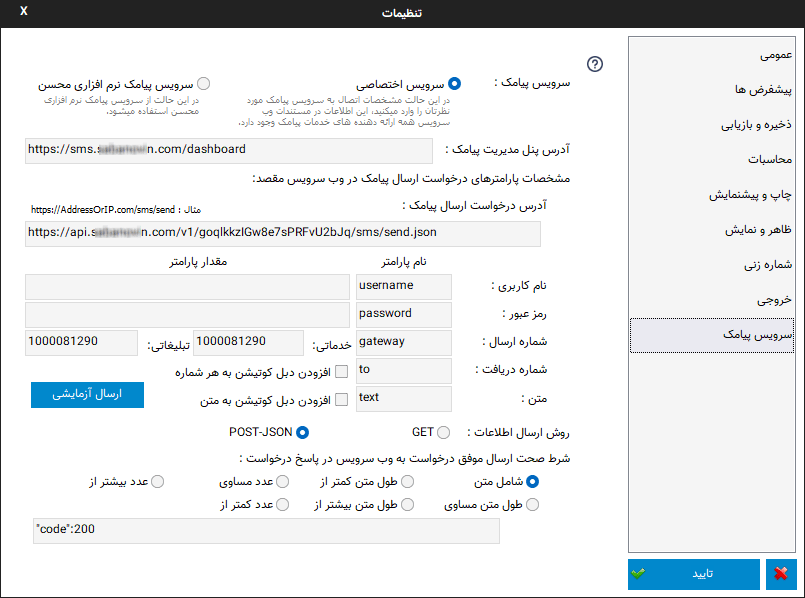
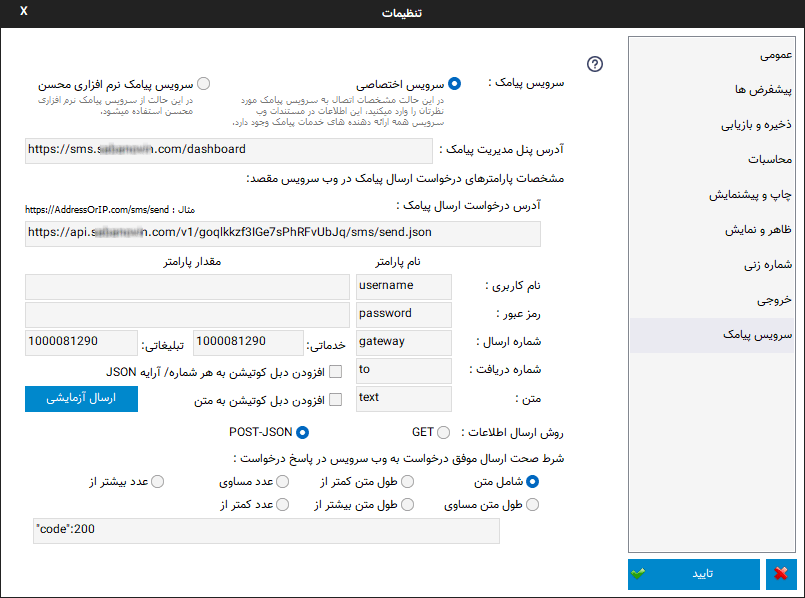
adding next version notes[bank]

diff --git a/docs/source/service-sms.rst b/docs/source/service-sms.rst
@@ -9,6 +9,11 @@
 
 در نرم افزار فاکتور قابلیتی قرار داده شده است که بتوانید براحتی و بصورت پیشرفته انواع پیامک های تبلیغاتی و اطلاع رسانی ارسال نمایید.
 
+برای ارسال پیامک در نرم افزار فاکتور دو روش وجود دارد، 1. استفاده از سرویس پیامک نرم افزاری محسنو 2. استفاده از سرویس پیامک سایر شرکت ها بصورت مستقیم.
+این دو حالت را میتوانید از طریق قست :ref:`تنظیمات سرویس پیامک<setting-sms>` تغییر دهید.
+
+در حالت اول بعلت محدودیت های اوپراتور ها در محتوای پیامک ها و بوجود آمدن مسئولیت برای ارسال لینک، شماره تماس و شماره کارت محدودیت هایی وجود دارد و برای استفاده از این محدودیت ها میتوانید از روش دوم استفاده نمایید.
+
 
 
 |
@@ -19,7 +24,9 @@
 ارسال پیامک
 ===============
 
-برای ارسال پیامک ابتدا میبایست وارد حساب کاربریتان در نرم افزار شوید، این حساب کاربری همان حساب کاربری سایت میباشد.
+برای ارسال پیامک در حالت سرویس اختصاصی پیامک میبایست تنظیمات مربوطه را در قسمت :ref:`تنظیمات سرویس پیامک<setting-sms>` انجام دهید.
+
+برای ارسال پیامک در حالت استفاده از سرویس پیامک نرم افزاری محسن ابتدا میبایست وارد حساب کاربریتان در نرم افزار شوید، این حساب کاربری همان حساب کاربری سایت میباشد.
 برای این کار گزینه **وضعیت** در نوار عمومی قسمت سرویس را انتخاب نمایید تا کادر زیر در کنار پنجره نرم افزار باز گردد:
 
 .. image:: images/service_statuslist.png
@@ -51,7 +58,7 @@
 |
 
 .. note::
-    * تمامی شماره هایی که برای ارسال پیامک تبلیغاتی استفاده میکنید میبایست از نظر بلک لیست بودن چک شوند، توصیه میشود لیست های پیامک تبلیغاتی را یکبار بررسی نمایید و سپس در گروه مورد نظر دسته بندی کنید، درحال حاضر پس از ارسال پیامک تبلیغاتی امکان عودت شماره های ارسال نشده به بلک لیست وجود ندارد.
+    * شماره هایی که برای ارسال پیامک تبلیغاتی استفاده میکنید را میتوانید از نظر بلک لیست بودن چک کنید، توصیه میشود لیست های پیامک تبلیغاتی را یکبار بررسی نمایید و سپس در گروه مورد نظر دسته بندی کنید.
     * برای چک کردن وضعیت بلک لیست یک شماره میتوانید از `صفحه بررسی وضعیت بلک لیست`_ استفاده نمایید.
   
 در این پنجره پنج بخش وجود دارد:
@@ -123,6 +130,8 @@
 
 ارسال پیامک اطلاع رسانی
 ============================
+اگر از حالت سرویس اختصاصی پیامک استفاده میکنید  میبایست طبق قوانین سرویس دهنده خود عمل نمایید، در این حالت نیازی به تائید صادر کننده و الگو نیست و این موارد در سیستم شما ذخیره میشودند.
+
 تفاوت پیام تبلیغاتی و پیامک اطلاع رسانی این است که در پیامک تبلیغاتی پیام ارسال شده تنها به افزادی خواهد رسید که دریافت این نوع پیامک را مسدود نکرده باشند ولی پیامک اطلاع رسانی به همه ارسال خواهد شد.
 
 به خاطر همین حالت پیامک های اطلاع رسانی، اوپراتورها محدودیت هایی برای ارسال آن در نظر گرفته اند که میبایست رعایت شوند.
@@ -131,7 +140,7 @@
 
 روش ارسال پیامک اطلاع رسانی شبیه به پیامک تبلیغاتی میباشد اما در موارد زیر با هم تفاوت دارند:
 
-طبق موارد گفته شده میبایست حتما نام ارسال کننده در متن پیام وجود داشته باشد، برای تشخیص این نام ابتدا میبایست وارد پروفایل خود در سایت شوید و در `قسمت صادر کننده از پروفایل`_ نام های مورد نظرتان را ثبت نماید و منتظر تائید آنها بمانید:
+طبق موارد گفته شده اگر از سرویس پیامک نرم افزاری محسن استفاده میکنید میبایست حتما نام ارسال کننده در متن پیام وجود داشته باشد، برای تشخیص این نام ابتدا میبایست وارد پروفایل خود در سایت شوید و در `قسمت صادر کننده از پروفایل`_ نام های مورد نظرتان را ثبت نماید و منتظر تائید آنها بمانید:
 
 
 .. image:: images/service_sms_page_coms.png
@@ -143,7 +152,7 @@
 پس از تائید صادر کننده میتوانید پیامک اطلاع رسانی ارسال نمایید.
 
 
-**افزودن الگو** برای پیامک اطلاع رسانی  نیز کمی با پیامک تبلیغاتی تفاوت دارد، به علت موارد گفته شده میبایست الگوی پیامک اطلاع رسانی مورد تائید قرار گیرد.
+**افزودن الگو** برای پیامک اطلاع رسانی  نیز کمی با پیامک تبلیغاتی تفاوت دارد، اگر از سرویس پیامک نرم افزاری محسن استفاده میکنید به علت موارد گفته شده میبایست الگوی پیامک اطلاع رسانی مورد تائید قرار گیرد.
 
 .. note::
     * در اول پیام از کلمات خطاب کننده (مثل ، کاربر گرامی - اولیای محترم - مشتری گرامی و...) استفاده نمائید.
@@ -174,8 +183,9 @@
 
 خرید بسته پیامک
 ===================
+اگر از سرویس اختصاصی پیامک استفاده میکنید برای خرید بسته میبایست به سایت خدمات دهنده انتخابیتان مراجعه نمایید و دیگر نیازی به خرید بسته در سایت نرم افزاری محسن نیست.
 
-به علت هزینه بر بودن ارسال پیامک میبایست قبل از ارسال حساب کاربری خود را شارژ نمایید . برای این منظور بست ههای مختلفی برا ارسال پیامک در سایت وجود دارد که بنا به نیاز خود میتوانید آنها را تهیه نمایید. ما سعی کرده ایم کمترین تعرفته پیامک را برای شما ارائه دهیم.
+اگر از سرویس پیامک نرم افزاری محسن استفاده میکنید به علت هزینه بر بودن ارسال پیامک میبایست قبل از ارسال، حساب کاربری خود را شارژ نمایید . برای این منظور بسته های مختلفی برای ارسال پیامک در سایت وجود دارد که بنا به نیاز خود میتوانید آنها را تهیه نمایید. ما سعی کرده ایم کمترین تعرفه پیامک را برای شما ارائه دهیم.
 
 برای این کار کافیست به قسمت `سرویسها`_ در سایت مراجعه نمایید.
 

diff --git a/docs/source/window-bank.rst b/docs/source/window-bank.rst
@@ -19,15 +19,24 @@
 
 |
 
+.. _bank_index:
+
+|newflag| انتخاب انبار
+```````````````````````````
+توسط گزینه اول و سمت راست پنجره امکان نمایش انبار های مختلف وجود دارد، با انتخاب هر انبار تنها محتوای داخل آن انبار نمایش داده خواهد شد و جستجو نیز در میان همان انبار انجام میشود، برای نمایش کل انبارها و جستجو بین همه آنها کافیست این گزینه را روی <همه> تنظیم نمایید، برای مدیریت بیشتر انبار به قسمت :ref:`منوی پنجره<bank_menu>` مراجعه نمایید.
+
+
 .. _bank_products:
 
 کالا و خدمات
-`````````````
+`````````````````
 **افزودن کالا یا خدمات جدید :** برای این کار ابتدا :code:`جدید` را انتخاب نمایید ، نشانه گر بر روی فیلد "کد" خواهد رفت ، اطلاعات مورد نظر را وارد کنید و با ماوس یا با زدن کلید تب ( :code:`Tab` ) به فیلد بعدی بروید ، در پایان با انتخاب :code:`ذخیره` کالای وارد شده به انبار اضافه می شود .
 
 توجه داشته باشید که میبایست حداقل های "کد غیر تکراری، قیمت، تعداد و شرح1" وارد شوند تا گزینه ذخیره فعال گردد.
 
 **محاسبه خودکار قیمت فروش :** برای وارد کردن قیمت فروش می توانید از امکان محاسبه خودکار آن استفاده کنید، به اینصورت که بعد از نوشتن قیمت خرید و زدن کلید "تب" به فیلد بعدی منتقل می شوید که در کنار آن % وجود دارد، در این فیلد با نوشتن درصد افزایش قیمت یا سود و زدن کلید "اینتر" ( :code:`Enter` ) یا کلیک بر روی فلش کنار آن درصد نوشته شده به قیمت خرید افزوده می شود و در کادر قیمت فروش نوشته خواهد شد.
+
+|newflag| **∞**: توسط این گزینه میتوانید مشخص کنید که کالا/خدمات انتخاب شده دارای مقدار نامحدود است و با فروش آن مقدارش کم نمیشود، برای مثال کارهای خدماتی ممکن است از همین نوع باشند.
 
 **ویرایش کالا یا خدمات :** برای این کار کافیست کالای مورد نظر را انتخاب نموده ، فیلد های مورد نظر را که در بالای لیست میباشد ویرایش کرده و :code:`ذخیره` را انتخاب نمایید .
 
@@ -162,6 +171,9 @@
     :alt:  منوی پنجره
     :align: center
 
+|newflag| **تغییر نام انبار**: توسط این گزینه میتوانید نام انباری که در قسمت انبار انتخاب شده است را تغییر دهید، پس از انتخاب این گزینه پنجره ای برای وارد کردن نام جدید باز خواهد شد.
+
+|newflag| **انتقال به انبار دیگر**: این گزینه برای انتقال مورد انتخابی کنونی به انباری دیگر است، پس از انتخاب، پنجره ای برای انتخاب انبار مقصد نمایش داده خواهد شد.
 
 **مرتب سازی :** در منوی پنجره میتوانید توسط دو گزینه مرتب سازی اطلاعات انبار را بر اساس کد صعودی و نزولی مرتب نمایید .
 
@@ -178,3 +190,7 @@
 **گزارش کل :** توسط این گزینه گزارشی از کل موجودی انبار نمایش داده می شود
 
 **گزارش کمبود موجودی :** این گزینه گزارشی از کالا/خدماتی که تعداد موجودی آنها در انبار کمتر از حداقل موجودی است نمایش می هد.
+
+|newflag| **گزارش تامین کمبور موجودی**: این گزینه گزارشی از مقدار کمبود موجودی از فیلد "حداقل موجودی" را نشان میدهد و هزینه تهیه هر قلم و جمع نهایی اقلام را نیز محاسبه خواهد کرد. برای مثال اگر حداقل موجودی یک کالا را 50 عدد تنظیم کرده باشید و هم اکنون 30 عدد از آن در انبار باقی مانده باشد، در این گزارش مقدار کمبود موجودی را 20 عدد محاسبه و علاوه بر نمایش قیمت خرید، آن را در این کمبود موجودی ضرب میکند و نمایش میدهد. امکان تغییر فیلد قیمت نیز در گزارش وجود دارد.
+
+|newflag| **نمایش ستون واحد در گزارش**: توسط این گزینه میتوانید ستون "واحد کالا" را در گزارش انبار مخفی یا نمایان کنید.

diff --git a/docs/source/window-settings.rst b/docs/source/window-settings.rst
@@ -221,12 +221,15 @@
 
 |newflag| سرویس پیامک
 -----------------------------
+در این قسمت تنظیماتی برای انتخاب نوع سرویس و خصوصیات آن وجود دارد:
+
+
+
 .. image:: images/setting_sms.png
     :alt: تنظیمات ارسال پیامک
     :align: center
 
-
-در این قسمت تنظیماتی برای انتخاب نوع سرویس و خصوصیات آن وجود دارد:
+|
 
 **سرویس پیامک**: توسط این گزینه میتوانید انتخاب کنید که قصد استفاده از سرویس پیامک خودتان را دارید یا از سرویس پیامک نرم افزاری محسن استفاده میکنید.
 
@@ -235,6 +238,15 @@
 **سرویس اختصاصی**: برای استفاده از این گزینه میبایست در یکی از خدمات دهنده های ارسال پیامک ثبتان کرده و در قسمت اطلاعات فنی وب سرویس اطلاعات مورد نیاز را در فیلدهای زیر پر کنید تا نرم افزار مستقما به وب سرویس شرکت مذکور متصل و پیامک ها را ارسال نماید.
 
 توجه کنید که در این حالت هیچ اطلاعاتی سمت سرویس های نرم افزاری محسن ارسال نمیشود و نرم افزار مستقیما با وب سرویس شرکت مورد نظرتان ارتباط برقرار میکند.
+
+در لینک زیر میتوانید تنظیمات برخی ارائه دهندگان سرویس پیامک را مشاهده نمایید:
+|service_sms_configs|
+
+.. |service_sms_configs| raw:: html
+
+    <a href="https://mohsensoft.com/blog/faktor-sms-configs" target="_blank">https://mohsensoft.com/blog/faktor-sms-configs</a>
+
+
 
 پس از انتخاب این گزینه فیلدهای زیر بنابر موارد مورد نیاز وب سرویس مورد نظرتان میبایست کامل گردند :
 
@@ -274,3 +286,8 @@
 .. note::    
     * در حالت سرویس اختصاصی نیازی به تائید صادر کننده و متن پیام نیست و میبایست قوانین سرویس دهنده انتخابی خودتان را رعایت نمایید.
     * قبل از بررسی متن پیام برگشتی درخواست از نظر خطاهای معمول شبکه مانند خطای نبود آدرس، عدم دسترسی، پایامترهای اشتباه، خطای وب سرویس و موارد مشابه بررسی میشود و در صورت صحت موارد بالا وارد قسمت بررسی شرط خواهد شد.
+
+
+**ارسال آزمایشی**: با استفاده از این گزینه میتوانید یک پیام آزمایشی با تنظیماتی که انجام داده اید ارسال نمایید و نتیجه ارسال را مشاهده کنید، پس از این ارسال پیفامی شامل موفقیت آمیز بودن یا نبودن، متن پاسخی که از سرور دریافت شده است ( این متن به حافظه موقت نیز کپی میشود و میتوانید آنرا در یک ویرایشگر متن بچسبانید و مورد بررسی قرار دهید) و همچنین نتیجه بررسی شرط نمایش داده خواهد شد.
+
+**افزودن دبل کوتیشن**: با فعال کردن این دو گزینه کاراکتر " به شماره دریافت کننده یا متن در حالت GET اضافه خواهد شد. در حالت POST-JSON شماره یا شماره های دریافت کننده تبدیل به آرایه میشوند.

diff --git a/docs/source/faq.rst b/docs/source/faq.rst
@@ -12,11 +12,18 @@
 -----------------------------
 نسبت به ویندوز خود یکی از مسیر های زیر را دنبال کنید:
 
-برای ویندوز ایکس پی:
+در ویندوز 11:
 
 .. code-block :: bat
 
-    'Start -> Control Panel –> Regional and Language Options -> Customize'
+    'Settings -> Time & language -> Language & region -> Administrative language settings -> Format -> Additional settings'
+
+
+در ویندوز 8 و 10:
+
+.. code-block :: bat
+
+    'This PC -> Open Control Panel -> Region -> Additional Settings'
 
 برای ویندوز 7:
 
@@ -24,11 +31,11 @@
 
     'Start -> Control Panel -> Regional and Language -> Additional Settings'
 
-در ویندوز 8 و 10:
+برای ویندوز ایکس پی:
 
 .. code-block :: bat
 
-    'This PC -> Open Control Panel -> Region -> Additional Settings'
+    'Start -> Control Panel –> Regional and Language Options -> Customize'
 
 سپس گزینه Use native digits را اگر از تنظیمات کامل فارسی استفاده می کنید روی Context و الا روی National قرار دهید.
 
@@ -43,6 +50,8 @@
 .. image:: images/win_region_adv_currency.png
     :alt: تنظیمات صحیح پول ویندوز
     :align: center
+
+|
 
 .. _faq-install-page:
 
